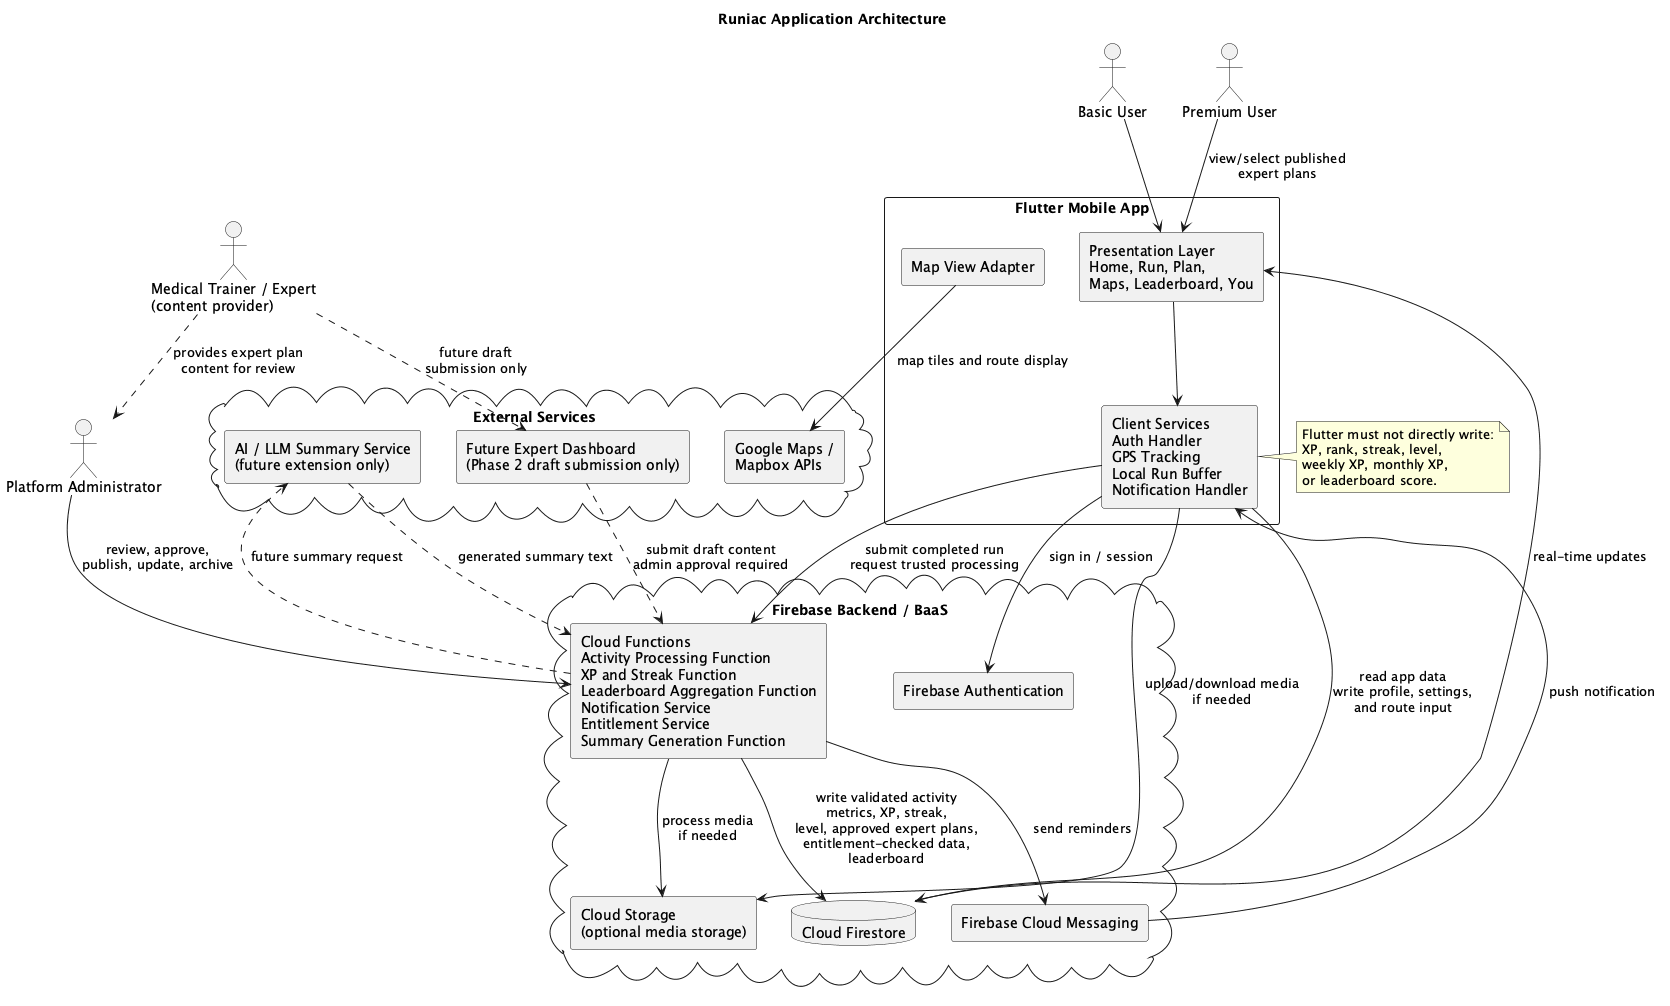
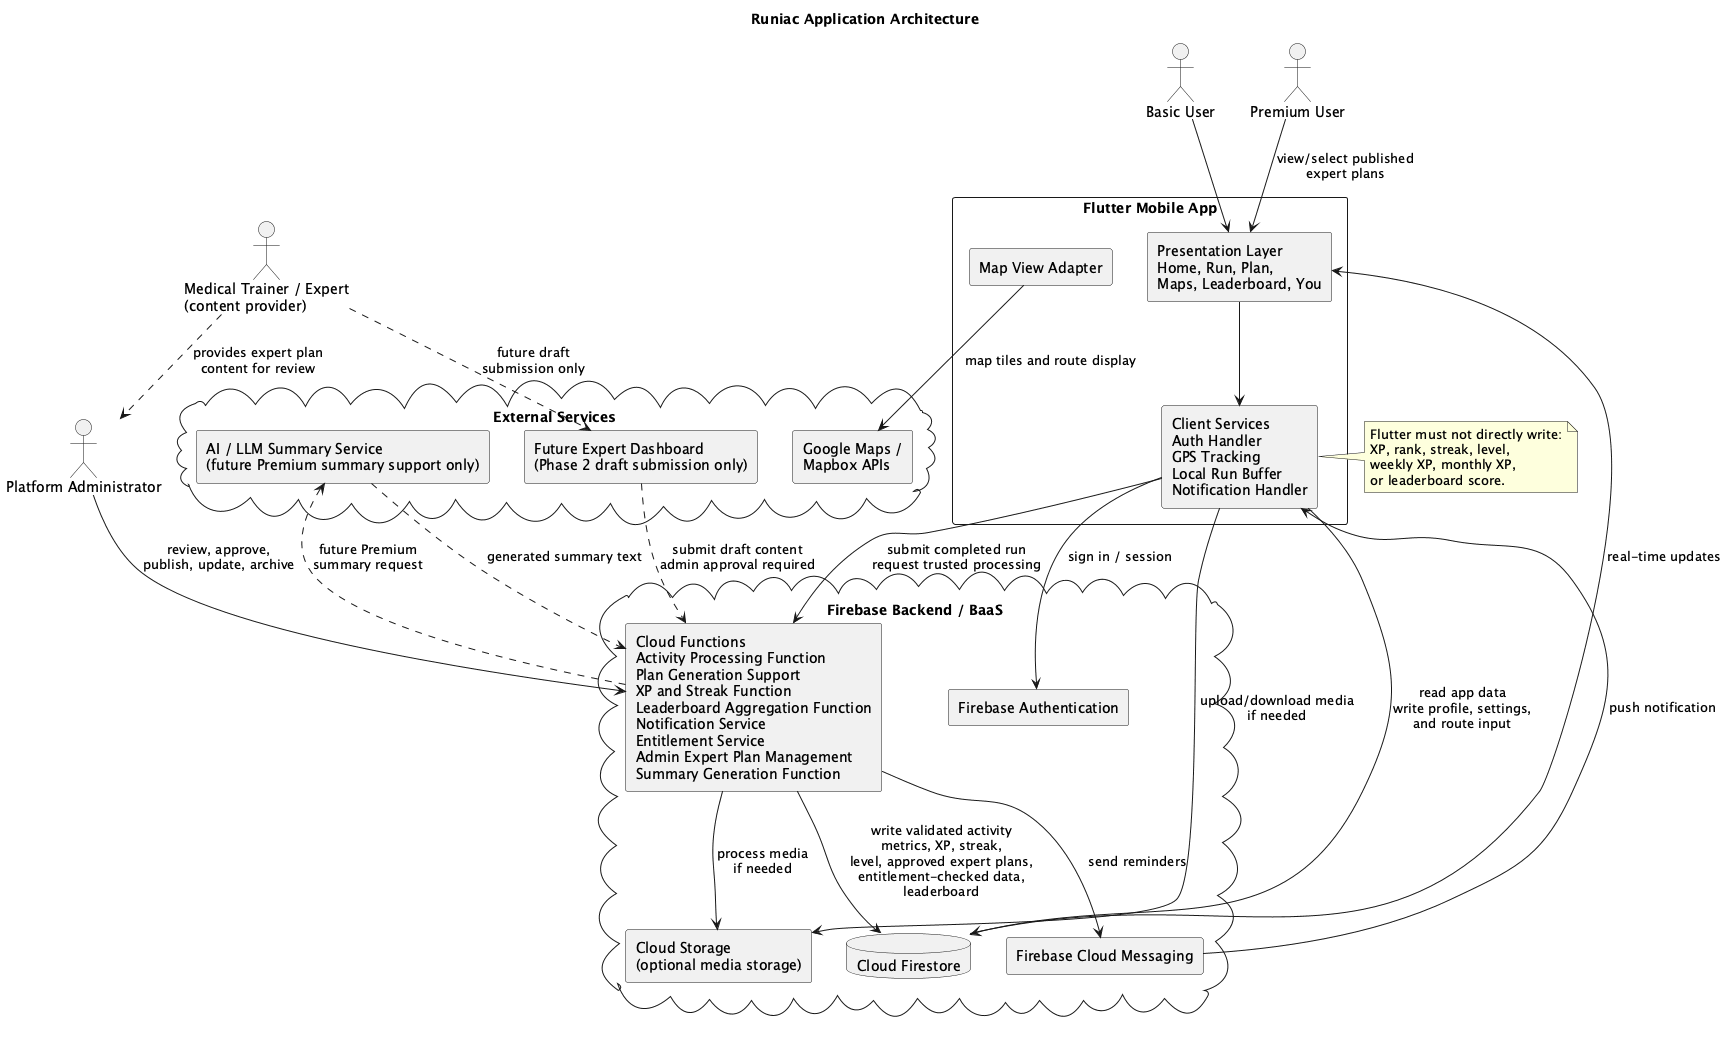
docs(diagrams): refresh architecture diagram labels

diff --git a/docs/pdd/01-application-architecture.md b/docs/pdd/01-application-architecture.md
@@ -136,7 +136,7 @@ cloud "Firebase Backend / BaaS" as Firebase {
 
 cloud "External Services" as External {
   component "Google Maps /\nMapbox APIs" as Maps
-  component "AI / LLM Summary Service\n(future extension only)" as AI
+  component "AI / LLM Summary Service\n(future Premium summary support only)" as AI
   component "Future Expert Dashboard\n(Phase 2 draft submission only)" as ExpertDash
 }
 
@@ -160,7 +160,7 @@ FCM --> Client : push notification
 Client --> Storage : upload/download media\nif needed
 Functions --> Storage : process media\nif needed
 
-Functions ..> AI : future summary request
+Functions ..> AI : future Premium\nsummary request
 AI ..> Functions : generated summary text
 
 Firestore --> UI : real-time updates

diff --git a/docs/pdd/02-physical-architecture.md b/docs/pdd/02-physical-architecture.md
@@ -116,13 +116,13 @@ cloud "Firebase Managed Cloud / BaaS" as Firebase {
   database "Cloud Firestore" as Firestore
   component "Cloud Functions" as Functions
   component "Firebase Cloud Messaging" as FCM
-  database "Cloud Storage\nfor Firebase" as Storage
+  database "Cloud Storage\n(optional media storage)" as Storage
 }
 
 cloud "External Services" as External {
   component "Google Maps /\nMapbox APIs" as Maps
   component "Geocoding /\nRegion Mapping API" as Geo
-  component "External AI /\nLLM Service" as LLM
+  component "External AI /\nLLM Service\n(future Premium summary support only)" as LLM
   component "OS Share Sheet /\nSocial Media Platforms" as Share
 }
 